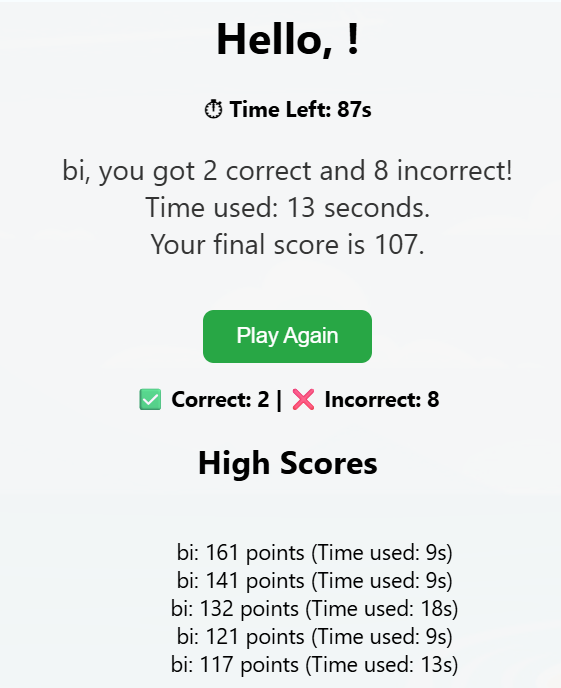
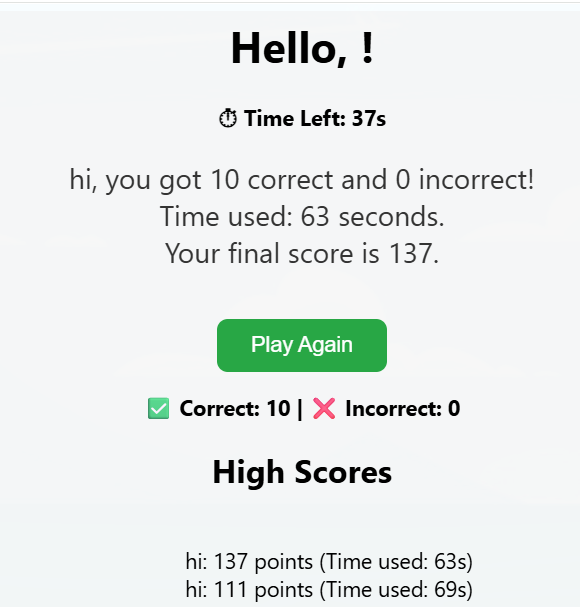
Adapt Readme of play again feauture

diff --git a/README.md b/README.md
@@ -145,7 +145,7 @@ To follow best practice, wireframes were developed for mobile, tablet, and deskt
 |Score Tracking| The user's score is tracked in real-time based on correct answers and shown at the end of the game in a result summary.|![screenshot](./documentation/features/scoremessageandtime.png) |
 |Local Storage for Score History| After each game, the user's name, score, and time used are saved in localStorage, allowing them to view their quiz history even after refreshing the page.| (see photo on  Score tracking)|
 |Replay Functionality| The Users can restart the quiz at the end using the "Play Again" button, resetting the timer, questions, and score.|(See answer feedback photo) |
-|When User click Replay, no modal prompt unless after a page refresh| If the user wants to play and dont refresh the page,the modal wont prompt to ask the name again.|(see photo on  Score tracking) |
+|Playagain| Skips modal entry. Last top score player is refilled, unless manually changed|(see photo on  Score tracking) |
 |Shuffel Function| The question and answer order changes each time the game is replayed, so that the user can test them selfs in remembering the question rather than the order of the previous results.|![screenshot](./documentation/features/shuffel1.png)  ![screenshot](./documentation/features/shuffel2.png)  |
 |Footer with contact link like Github| Shows the github icon|(see photo on  Score tracking) |
 | 404 | The 404 error page will indicate when a user has somehow navigated to a page that doesn't exist. This replaces the default GitHub Pages 404 page, and ties-in with the look and feel of the *Quiz Website*| ![screenshot](./documentation/defensive/404.png) |
